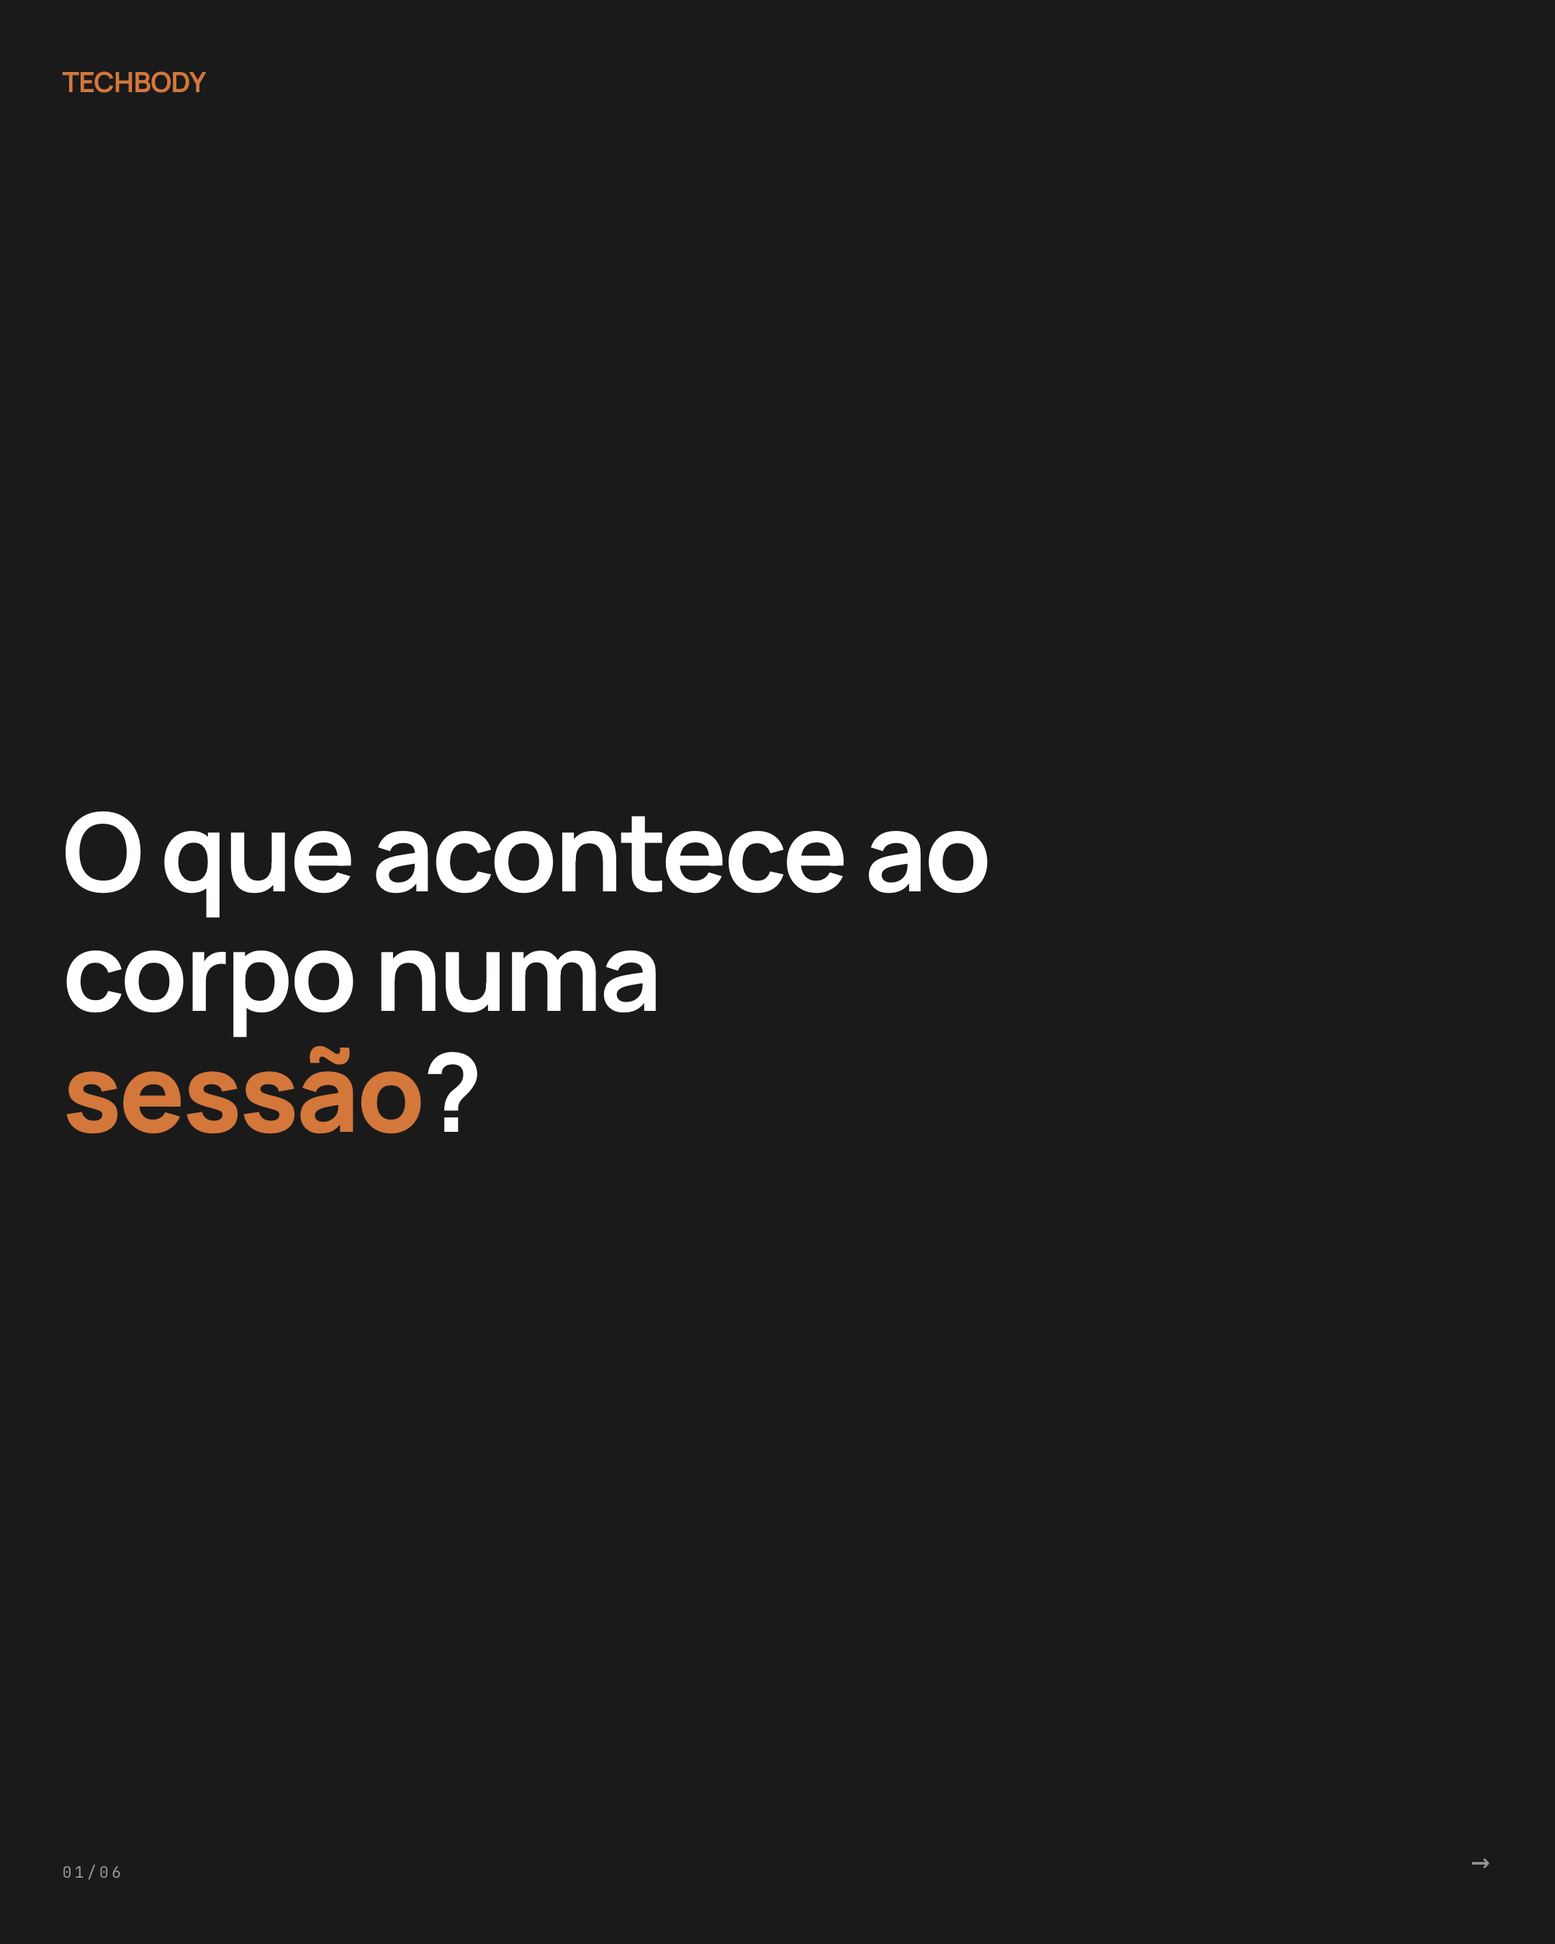
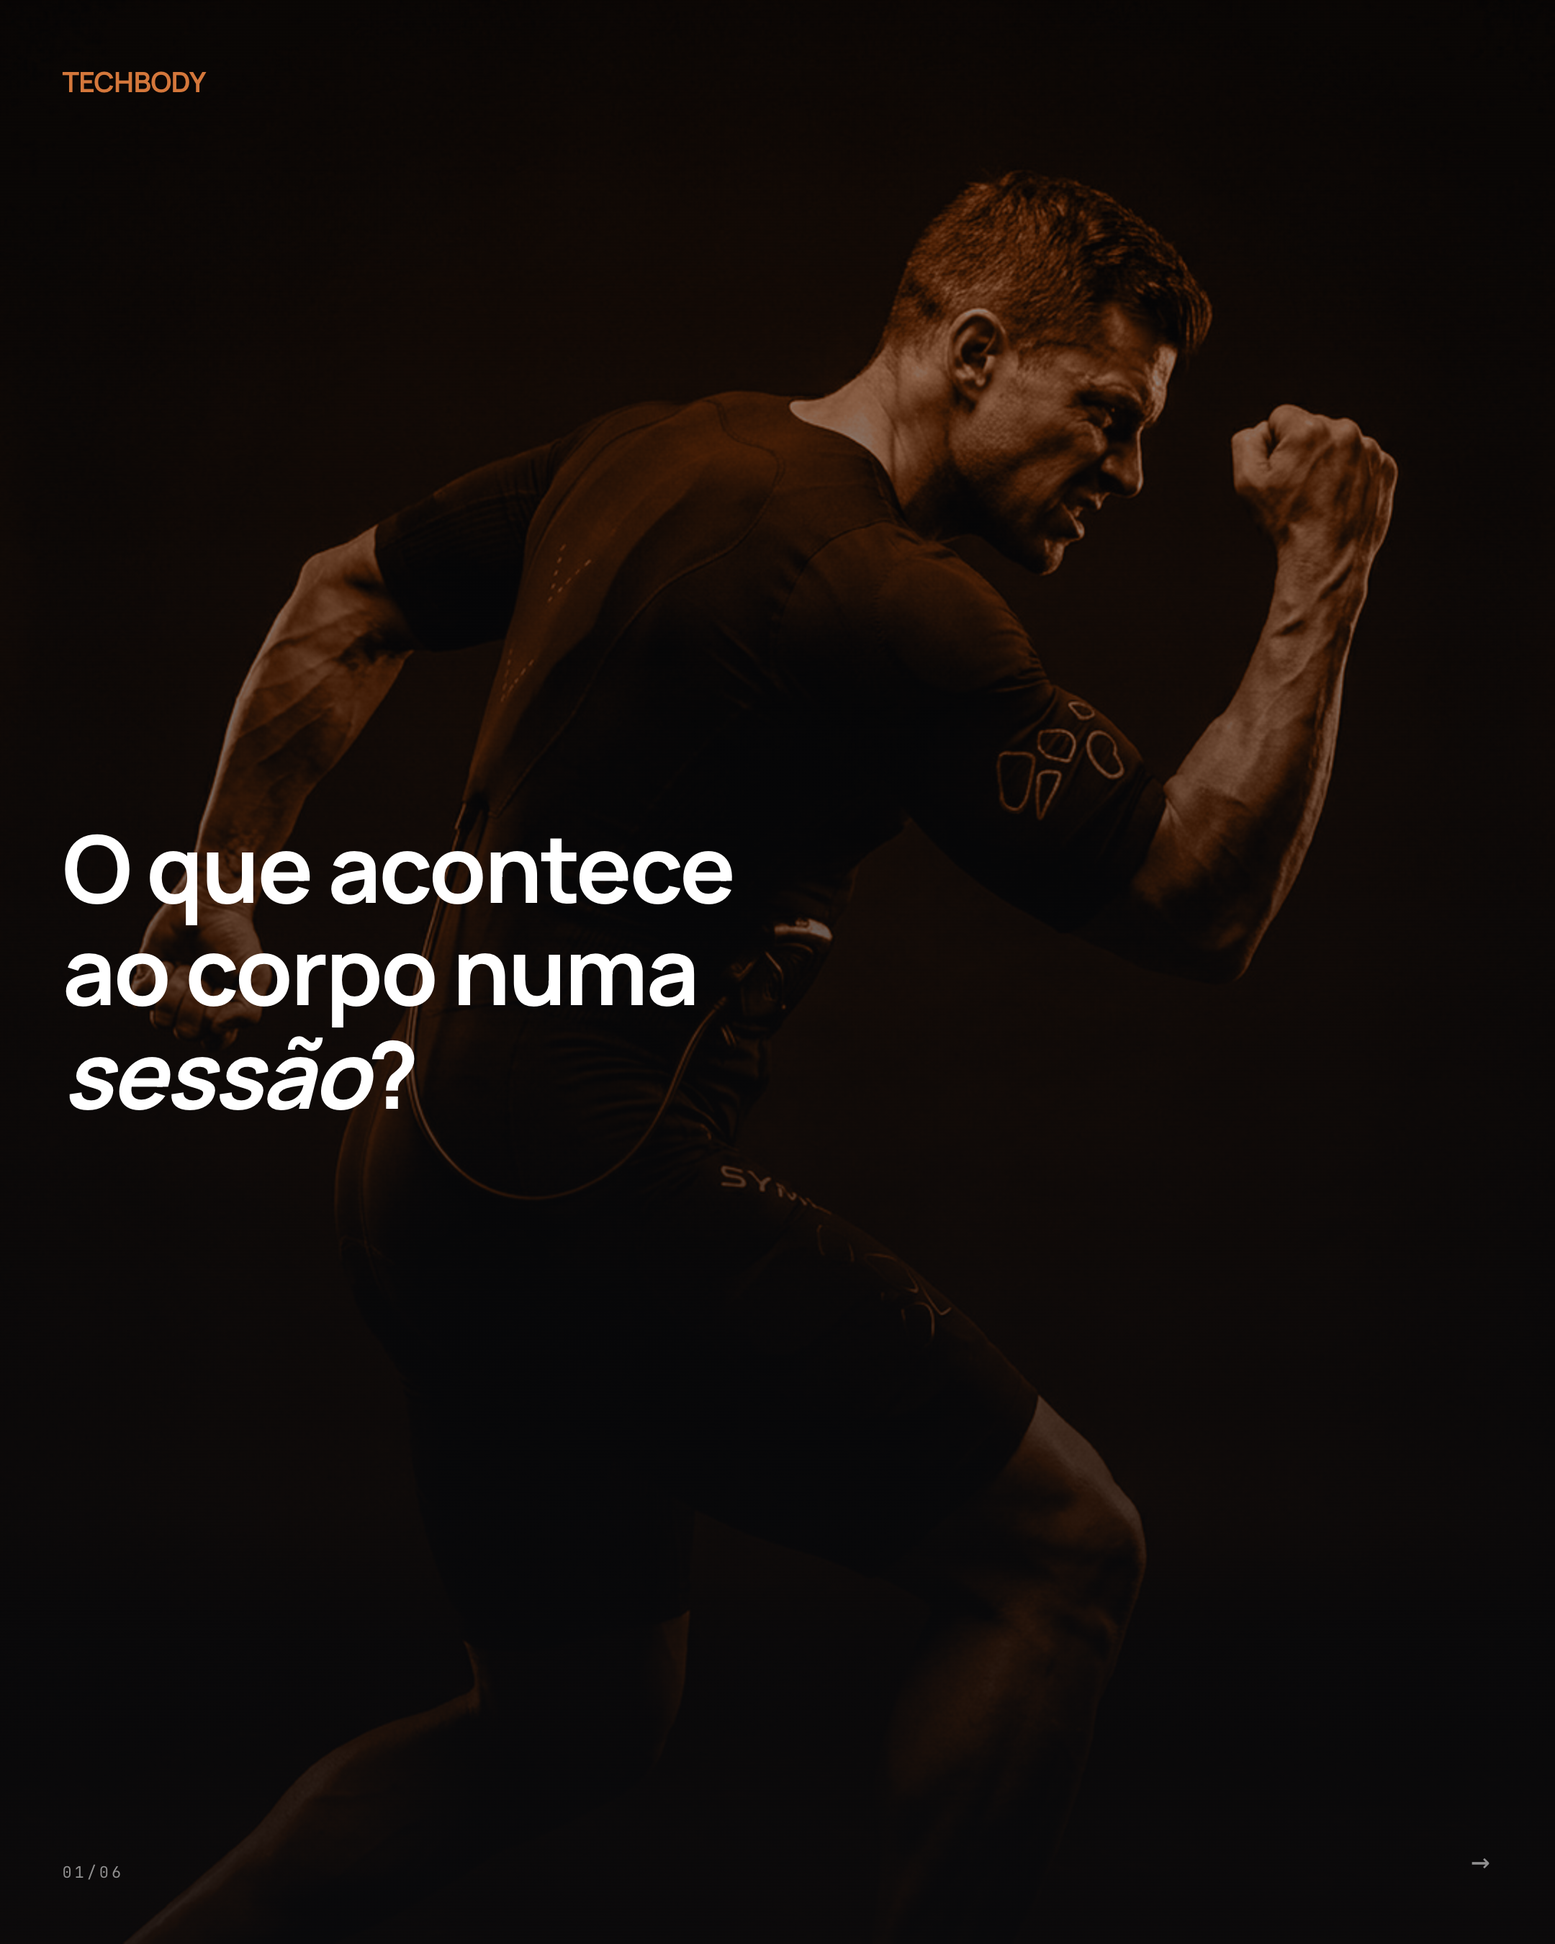
Aprovacao: setas de slides corrigidas + clicar na imagem abre em grande; TB julho com foto duotone no slide 1
- scrollBy na janela do iframe era no-op (scroller real e a div .carousel) -> scrollTo no .carousel
- overlay data-zoom sobre preview de carrosseis e stories (twins sincronizados)
- 4 carrosseis TB julho: foto do banco reusada c/ duotone laranja + crops novos, orfaos corrigidos
- versoes: tb+luiz 20260606-2358

diff --git a/public/aprovacao-luiz-202605/js/components/carrossel-row.js b/public/aprovacao-luiz-202605/js/components/carrossel-row.js
@@ -124,8 +124,14 @@ class CarrosselRow extends HTMLElement {
       const doc = f.contentDocument; const el = doc && doc.getElementById(`slide-${n}`);
       // NÃO usar scrollIntoView aqui: propaga aos ancestors same-origin e
       // scrollava a página principal até ao tile em cada load de iframe
-      // (página "fugia" do calendário no refresh). scrollBy interno não propaga.
-      if (el) { const r = el.getBoundingClientRect(); f.contentWindow.scrollBy(r.left, r.top); }
+      // (página "fugia" do calendário no refresh). O scroller real é a div
+      // .carousel (overflow-x) — scrollTo nela não propaga ao parent. A janela
+      // do iframe não scrolla (scrollBy nela era no-op: setas "mortas").
+      if (el) {
+        const sc = doc.querySelector(".carousel");
+        if (sc) sc.scrollTo({ left: el.offsetLeft, top: 0 });
+        else f.contentWindow.scrollTo(el.offsetLeft, el.offsetTop);
+      }
     } catch {}
   }
   // Após load/navegação: se há edit guardado, reflecte-o no preview; senão NÃO
@@ -175,6 +181,7 @@ class CarrosselRow extends HTMLElement {
           <div class="card__left">
             <div class="card__preview card__preview--45">
               <iframe loading="lazy" src="${it.html_url}?v=${APP_VERSION}&c=${currentContentSig()}" title="pré-visualização ao vivo" scrolling="no"></iframe>
+              <button class="card__preview-open" data-zoom aria-label="Ver em grande" title="Ver em grande"></button>
             </div>
             <div class="card__slidebar">
               <button class="card__nav" data-prev aria-label="Slide anterior">‹</button>

diff --git a/public/aprovacao-tb-202605/js/components/carrossel-row.js b/public/aprovacao-tb-202605/js/components/carrossel-row.js
@@ -124,8 +124,14 @@ class CarrosselRow extends HTMLElement {
       const doc = f.contentDocument; const el = doc && doc.getElementById(`slide-${n}`);
       // NÃO usar scrollIntoView aqui: propaga aos ancestors same-origin e
       // scrollava a página principal até ao tile em cada load de iframe
-      // (página "fugia" do calendário no refresh). scrollBy interno não propaga.
-      if (el) { const r = el.getBoundingClientRect(); f.contentWindow.scrollBy(r.left, r.top); }
+      // (página "fugia" do calendário no refresh). O scroller real é a div
+      // .carousel (overflow-x) — scrollTo nela não propaga ao parent. A janela
+      // do iframe não scrolla (scrollBy nela era no-op: setas "mortas").
+      if (el) {
+        const sc = doc.querySelector(".carousel");
+        if (sc) sc.scrollTo({ left: el.offsetLeft, top: 0 });
+        else f.contentWindow.scrollTo(el.offsetLeft, el.offsetTop);
+      }
     } catch {}
   }
   // Após load/navegação: se há edit guardado, reflecte-o no preview; senão NÃO
@@ -175,6 +181,7 @@ class CarrosselRow extends HTMLElement {
           <div class="card__left">
             <div class="card__preview card__preview--45">
               <iframe loading="lazy" src="${it.html_url}?v=${APP_VERSION}&c=${currentContentSig()}" title="pré-visualização ao vivo" scrolling="no"></iframe>
+              <button class="card__preview-open" data-zoom aria-label="Ver em grande" title="Ver em grande"></button>
             </div>
             <div class="card__slidebar">
               <button class="card__nav" data-prev aria-label="Slide anterior">‹</button>

diff --git a/public/aprovacao-luiz-202605/js/components/item-viewer.js b/public/aprovacao-luiz-202605/js/components/item-viewer.js
@@ -174,10 +174,13 @@ class ItemViewer extends HTMLElement {
       const doc = iframe.contentDocument;
       const el = doc && doc.getElementById(`slide-${n}`);
       if (el) {
-        // scrollBy interno em vez de scrollIntoView: este propaga aos ancestors
-        // same-origin e scrollava o body por trás do overlay (perdia a posição).
-        const r = el.getBoundingClientRect();
-        iframe.contentWindow.scrollBy(r.left, r.top);
+        // scrollTo no scroller real (.carousel, overflow-x) em vez de
+        // scrollIntoView: este propaga aos ancestors same-origin e scrollava o
+        // body por trás do overlay. A janela do iframe não scrolla (scrollBy
+        // nela era no-op: setas "mortas").
+        const sc = doc.querySelector(".carousel");
+        if (sc) sc.scrollTo({ left: el.offsetLeft, top: 0 });
+        else iframe.contentWindow.scrollTo(el.offsetLeft, el.offsetTop);
         return;
       }
     } catch {}
@@ -210,8 +213,12 @@ class ItemViewer extends HTMLElement {
     try {
       const doc = iframe.contentDocument;
       const el = doc && doc.getElementById(`slide-${n}`);
-      // scrollBy interno — ver nota em _gotoSlideInFrame (scrollIntoView propaga).
-      if (el) { const r = el.getBoundingClientRect(); iframe.contentWindow.scrollBy(r.left, r.top); }
+      // scrollTo no scroller real — ver nota em _gotoSlideInFrame.
+      if (el) {
+        const sc = doc.querySelector(".carousel");
+        if (sc) sc.scrollTo({ left: el.offsetLeft, top: 0 });
+        else iframe.contentWindow.scrollTo(el.offsetLeft, el.offsetTop);
+      }
     } catch {}
   }
 

diff --git a/public/aprovacao-tb-202605/js/components/item-viewer.js b/public/aprovacao-tb-202605/js/components/item-viewer.js
@@ -174,10 +174,13 @@ class ItemViewer extends HTMLElement {
       const doc = iframe.contentDocument;
       const el = doc && doc.getElementById(`slide-${n}`);
       if (el) {
-        // scrollBy interno em vez de scrollIntoView: este propaga aos ancestors
-        // same-origin e scrollava o body por trás do overlay (perdia a posição).
-        const r = el.getBoundingClientRect();
-        iframe.contentWindow.scrollBy(r.left, r.top);
+        // scrollTo no scroller real (.carousel, overflow-x) em vez de
+        // scrollIntoView: este propaga aos ancestors same-origin e scrollava o
+        // body por trás do overlay. A janela do iframe não scrolla (scrollBy
+        // nela era no-op: setas "mortas").
+        const sc = doc.querySelector(".carousel");
+        if (sc) sc.scrollTo({ left: el.offsetLeft, top: 0 });
+        else iframe.contentWindow.scrollTo(el.offsetLeft, el.offsetTop);
         return;
       }
     } catch {}
@@ -210,8 +213,12 @@ class ItemViewer extends HTMLElement {
     try {
       const doc = iframe.contentDocument;
       const el = doc && doc.getElementById(`slide-${n}`);
-      // scrollBy interno — ver nota em _gotoSlideInFrame (scrollIntoView propaga).
-      if (el) { const r = el.getBoundingClientRect(); iframe.contentWindow.scrollBy(r.left, r.top); }
+      // scrollTo no scroller real — ver nota em _gotoSlideInFrame.
+      if (el) {
+        const sc = doc.querySelector(".carousel");
+        if (sc) sc.scrollTo({ left: el.offsetLeft, top: 0 });
+        else iframe.contentWindow.scrollTo(el.offsetLeft, el.offsetTop);
+      }
     } catch {}
   }
 

diff --git a/public/brands/techbody/output/2026-07/carrosseis/c02-uma-sessao-por-dentro.html b/public/brands/techbody/output/2026-07/carrosseis/c02-uma-sessao-por-dentro.html
@@ -151,14 +151,20 @@ h1, h2, h3, p, blockquote, .num {
   text-wrap: balance;
   text-wrap: pretty;
 }
+
+/* Julho: duotone laranja — fotos do banco com tratamento novo (≠ junho a cores).
+   blend no background (não filter no elemento: filter dessaturaria o ::after). */
+.slide__photo { background-color: #b4622f; background-blend-mode: luminosity; }
+.slide__photo::after { background: linear-gradient(180deg, rgba(10,10,12,0.38) 0%, rgba(10,10,12,0.88) 100%); }
 </style>
 </head>
 <body>
 <section class="carousel" aria-label="Carrossel TechBody — uma_sessao_por_dentro">
 
-<article class="slide slide--type" id="slide-1">
+<article class="slide slide--photo" id="slide-1">
+  <div class="slide__photo" style="background-image:url('../../../assets/photos/magnific_e4-pico-de-intensidade-im_2964580645.jpg'); background-position: 70% center"></div>
   <div class="slide__top"><span class="brand-glyph">TechBody</span></div>
-  <div class="slide__body"><h1>O que acontece ao corpo numa <em>sessão</em>?</h1></div>
+  <div class="slide__body"><h1>O que acontece ao&nbsp;corpo numa <em>sessão</em>?</h1></div>
   <div class="slide__bottom"><span>01/06</span><span class="arrow">→</span></div>
 </article>
 <article class="slide slide--num" id="slide-2">

diff --git a/public/brands/techbody/output/2026-07/carrosseis/c01-ferias-progresso.html b/public/brands/techbody/output/2026-07/carrosseis/c01-ferias-progresso.html
@@ -151,14 +151,20 @@ h1, h2, h3, p, blockquote, .num {
   text-wrap: balance;
   text-wrap: pretty;
 }
+
+/* Julho: duotone laranja — fotos do banco com tratamento novo (≠ junho a cores).
+   blend no background (não filter no elemento: filter dessaturaria o ::after). */
+.slide__photo { background-color: #b4622f; background-blend-mode: luminosity; }
+.slide__photo::after { background: linear-gradient(180deg, rgba(10,10,12,0.38) 0%, rgba(10,10,12,0.88) 100%); }
 </style>
 </head>
 <body>
 <section class="carousel" aria-label="Carrossel TechBody — ferias_progresso">
 
-<article class="slide slide--type" id="slide-1">
+<article class="slide slide--photo" id="slide-1">
+  <div class="slide__photo" style="background-image:url('../../../assets/photos/magnific_e6-postreino-imagem-edito_2964580806.jpg'); background-position: center 30%"></div>
   <div class="slide__top"><span class="brand-glyph">TechBody</span></div>
-  <div class="slide__body"><h1>As férias não param o <em>progresso</em>.</h1></div>
+  <div class="slide__body"><h1>As férias não param o&nbsp;<em>progresso</em>.</h1></div>
   <div class="slide__bottom"><span>01/06</span><span class="arrow">→</span></div>
 </article>
 <article class="slide slide--num" id="slide-2">

diff --git a/public/brands/techbody/output/2026-07/carrosseis/c03-para-quem-e.html b/public/brands/techbody/output/2026-07/carrosseis/c03-para-quem-e.html
@@ -151,14 +151,20 @@ h1, h2, h3, p, blockquote, .num {
   text-wrap: balance;
   text-wrap: pretty;
 }
+
+/* Julho: duotone laranja — fotos do banco com tratamento novo (≠ junho a cores).
+   blend no background (não filter no elemento: filter dessaturaria o ::after). */
+.slide__photo { background-color: #b4622f; background-blend-mode: luminosity; }
+.slide__photo::after { background: linear-gradient(180deg, rgba(10,10,12,0.38) 0%, rgba(10,10,12,0.88) 100%); }
 </style>
 </head>
 <body>
 <section class="carousel" aria-label="Carrossel TechBody — para_quem_e">
 
-<article class="slide slide--type" id="slide-1">
+<article class="slide slide--photo" id="slide-1">
+  <div class="slide__photo" style="background-image:url('../../../assets/photos/magnific_e2.-aquecimento-controlad_2964620617.jpg'); background-position: 30% center"></div>
   <div class="slide__top"><span class="brand-glyph">TechBody</span></div>
-  <div class="slide__body"><h1>A eletroestimulação é para <em>si</em>?</h1></div>
+  <div class="slide__body"><h1>A eletroestimulação é&nbsp;para <em>si</em>?</h1></div>
   <div class="slide__bottom"><span>01/06</span><span class="arrow">→</span></div>
 </article>
 <article class="slide slide--type" id="slide-2">

diff --git a/public/brands/techbody/output/2026-07/carrosseis/c04-espaco-estudio.html b/public/brands/techbody/output/2026-07/carrosseis/c04-espaco-estudio.html
@@ -151,12 +151,18 @@ h1, h2, h3, p, blockquote, .num {
   text-wrap: balance;
   text-wrap: pretty;
 }
+
+/* Julho: duotone laranja — fotos do banco com tratamento novo (≠ junho a cores).
+   blend no background (não filter no elemento: filter dessaturaria o ::after). */
+.slide__photo { background-color: #b4622f; background-blend-mode: luminosity; }
+.slide__photo::after { background: linear-gradient(180deg, rgba(10,10,12,0.38) 0%, rgba(10,10,12,0.88) 100%); }
 </style>
 </head>
 <body>
 <section class="carousel" aria-label="Carrossel TechBody — espaco_estudio">
 
-<article class="slide slide--type" id="slide-1">
+<article class="slide slide--photo" id="slide-1">
+  <div class="slide__photo" style="background-image:url('../../../assets/photos/magnific_estudio-aquecimento-contr_2968055318.jpg'); background-position: center 65%"></div>
   <div class="slide__top"><span class="brand-glyph">TechBody</span></div>
   <div class="slide__body"><h1>Quanto espaço precisa um estúdio <em>TechBody</em>?</h1></div>
   <div class="slide__bottom"><span>01/06</span><span class="arrow">→</span></div>

diff --git a/public/aprovacao-luiz-202605/styles/components.css b/public/aprovacao-luiz-202605/styles/components.css
@@ -3298,6 +3298,14 @@ body {
   box-shadow: var(--shadow); overflow: hidden;
 }
 .card__preview iframe { width: 100%; height: 100%; border: 0; display: block; }
+/* Overlay invisível sobre o preview: clicar na própria imagem abre em grande
+   (o iframe engoliria o clique — o overlay apanha-o e dispara o zoom). */
+.card__preview-open {
+  position: absolute; inset: 0; z-index: 2;
+  background: transparent; border: 0; padding: 0; margin: 0;
+  cursor: zoom-in; -webkit-appearance: none; appearance: none;
+}
+.card__preview-open:focus-visible { outline: 2px solid var(--accent, #d4773b); outline-offset: -2px; }
 .card__preview--45  { aspect-ratio: 4 / 5; }
 .card__preview--916 { aspect-ratio: 9 / 16; }
 .card__preview video { width: 100%; height: 100%; display: block; object-fit: contain; background: #000; }

diff --git a/public/aprovacao-tb-202605/styles/components.css b/public/aprovacao-tb-202605/styles/components.css
@@ -3298,6 +3298,14 @@ body {
   box-shadow: var(--shadow); overflow: hidden;
 }
 .card__preview iframe { width: 100%; height: 100%; border: 0; display: block; }
+/* Overlay invisível sobre o preview: clicar na própria imagem abre em grande
+   (o iframe engoliria o clique — o overlay apanha-o e dispara o zoom). */
+.card__preview-open {
+  position: absolute; inset: 0; z-index: 2;
+  background: transparent; border: 0; padding: 0; margin: 0;
+  cursor: zoom-in; -webkit-appearance: none; appearance: none;
+}
+.card__preview-open:focus-visible { outline: 2px solid var(--accent, #d4773b); outline-offset: -2px; }
 .card__preview--45  { aspect-ratio: 4 / 5; }
 .card__preview--916 { aspect-ratio: 9 / 16; }
 .card__preview video { width: 100%; height: 100%; display: block; object-fit: contain; background: #000; }

diff --git a/public/aprovacao-luiz-202605/js/components/post-tile.js b/public/aprovacao-luiz-202605/js/components/post-tile.js
@@ -103,6 +103,7 @@ class PostTile extends HTMLElement {
           <div class="card__left">
             <div class="card__preview card__preview--916">
               <iframe loading="lazy" src="${it.html_url}?v=${APP_VERSION}&c=${currentContentSig()}" title="pré-visualização ao vivo" scrolling="no"></iframe>
+              <button class="card__preview-open" data-zoom aria-label="Ver em grande" title="Ver em grande"></button>
             </div>
             <div class="card__slidebar"><button class="card__zoom" data-zoom title="Ver em grande">🔍 Ver em grande</button></div>
           </div>

diff --git a/public/aprovacao-tb-202605/js/components/post-tile.js b/public/aprovacao-tb-202605/js/components/post-tile.js
@@ -103,6 +103,7 @@ class PostTile extends HTMLElement {
           <div class="card__left">
             <div class="card__preview card__preview--916">
               <iframe loading="lazy" src="${it.html_url}?v=${APP_VERSION}&c=${currentContentSig()}" title="pré-visualização ao vivo" scrolling="no"></iframe>
+              <button class="card__preview-open" data-zoom aria-label="Ver em grande" title="Ver em grande"></button>
             </div>
             <div class="card__slidebar"><button class="card__zoom" data-zoom title="Ver em grande">🔍 Ver em grande</button></div>
           </div>
